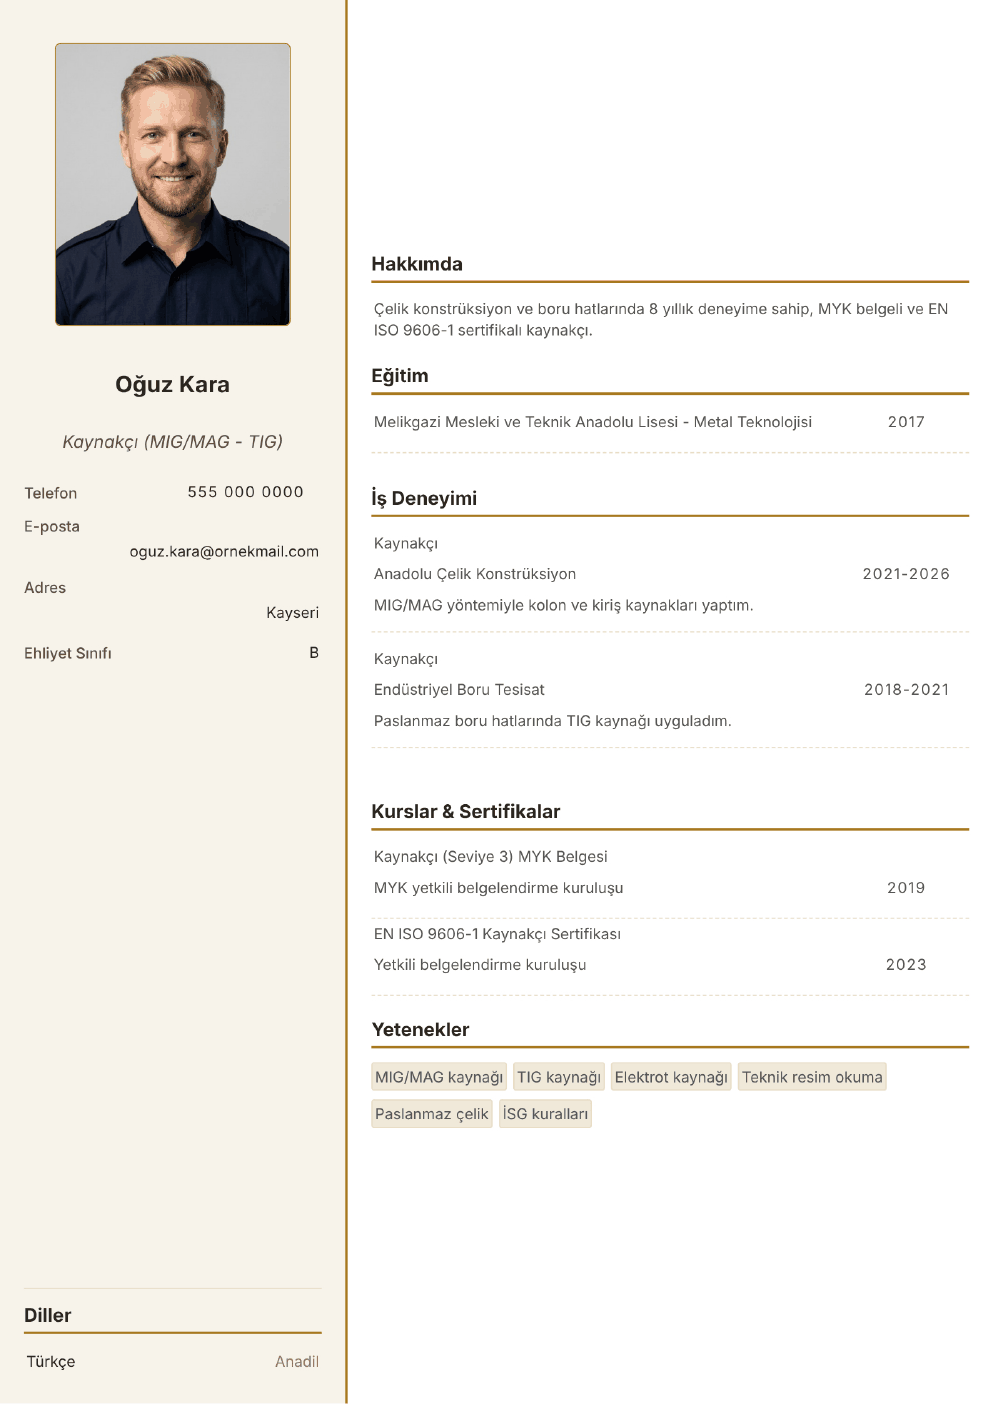
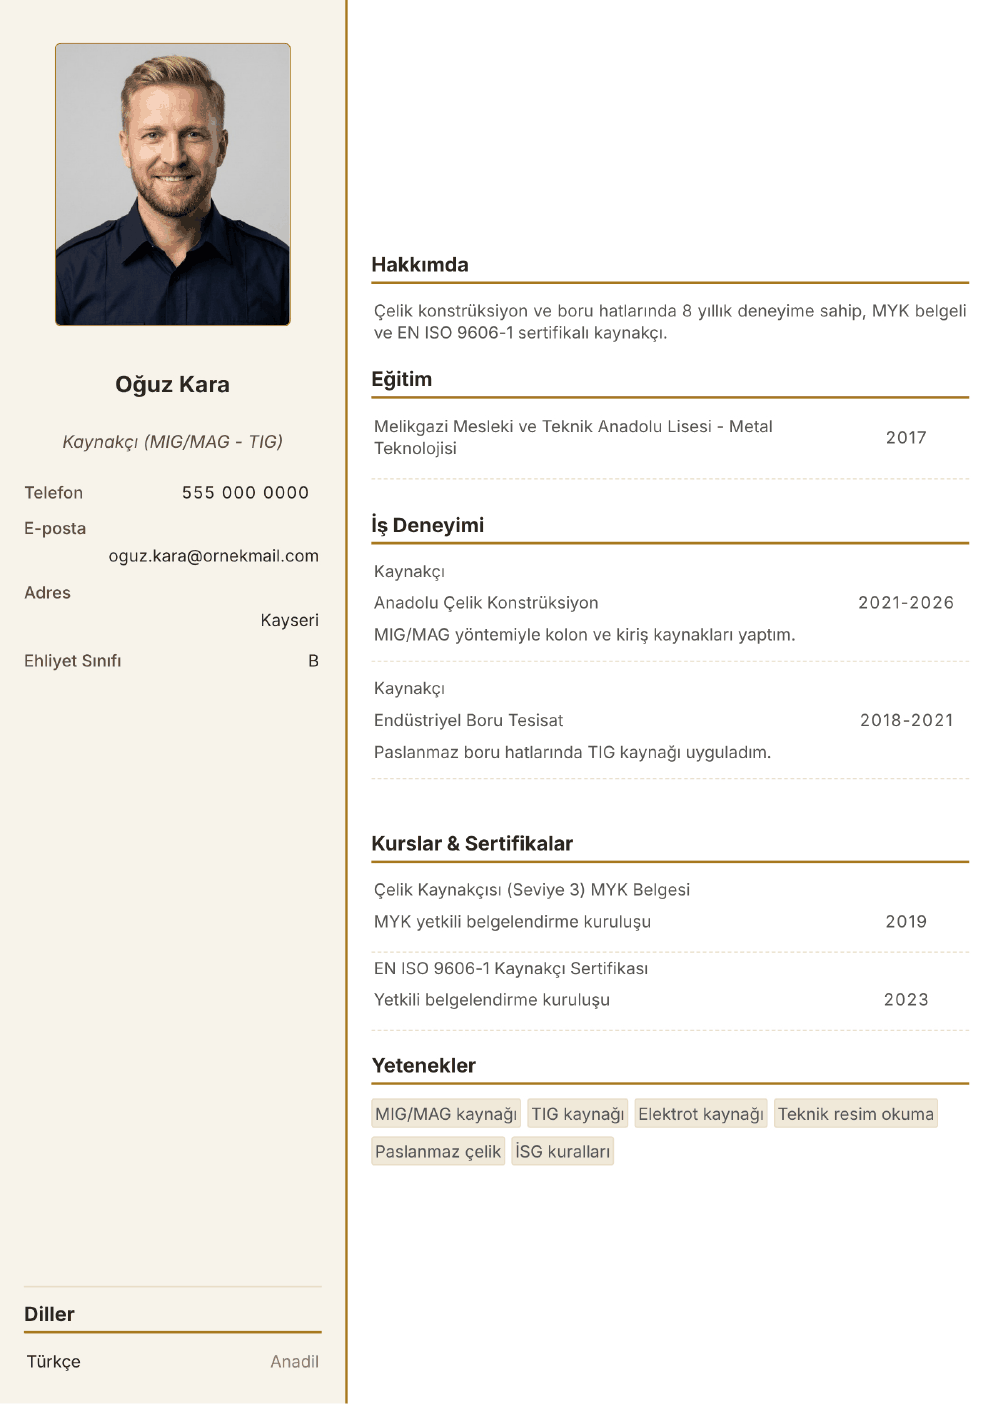
Kaynakçı örnek CV: belge adı Çelik Kaynakçısı (Seviye 3) MYK; hemşire: kaynaksız 'ön koşul' genellemesi çıkarıldı
- MYK'da genel 'Kaynakçı (Seviye 3)' yeterliliği yok; çelik konstrüksiyon/boru deneyimine uyan ulusal yeterlilik 11UY0010-3 Çelik Kaynakçısı (Seviye 3) (myk.gov.tr). Metin + görseller yeniden üretildi.
- Hemşire TR: 'BLS/ACLS birçok sağlık kuruluşu için ön koşul' iddiasının Türkiye için kaynağı yok; 'varsa ekleyin, ilan istiyorsa öne koyun' olarak değiştirildi.

Claude-Session: https://claude.ai/code/session_01Y3TyAZCoGoxbUTcukDJG1y

diff --git a/hemsire-cv-sablonu.html b/hemsire-cv-sablonu.html
@@ -168,7 +168,7 @@
 </ul>
 
 <h2>Teknik Beceriler ve Sertifikalar</h2>
-<p>Temel yaşam desteği (BLS), ileri kardiyak yaşam desteği (ACLS) gibi sertifikalarınızı mutlaka CV'nize ekleyin. Bu sertifikalar birçok sağlık kuruluşu için ön koşul niteliğindedir.</p>
+<p>Temel yaşam desteği (BLS), ileri kardiyak yaşam desteği (ACLS) gibi sertifikalarınız varsa CV'nize ekleyin; ilan bu tür bir sertifika istiyorsa görünür bir yere koyun.</p>
 
 <h2>Kişisel Yetkinlikleri Unutmayın</h2>
 <p>Hemşirelik mesleğinde stres yönetimi, empati, takım çalışması gibi kişisel yetkinlikler de en az teknik bilgi kadar önemlidir. Bu becerileri somut örneklerle destekleyin.</p>

diff --git a/kaynakci-cv-sablonu.html b/kaynakci-cv-sablonu.html
@@ -208,7 +208,7 @@
                     </ul>
                     <h3>Kurslar &amp; Sertifikalar</h3>
                     <ul>
-                        <li>Kaynakçı (Seviye 3) MYK Belgesi, MYK yetkili belgelendirme kuruluşu (2019)</li>
+                        <li>Çelik Kaynakçısı (Seviye 3) MYK Belgesi, MYK yetkili belgelendirme kuruluşu (2019)</li>
                         <li>EN ISO 9606-1 Kaynakçı Sertifikası, Yetkili belgelendirme kuruluşu (2023)</li>
                     </ul>
                     <h3>Yetenekler</h3>
